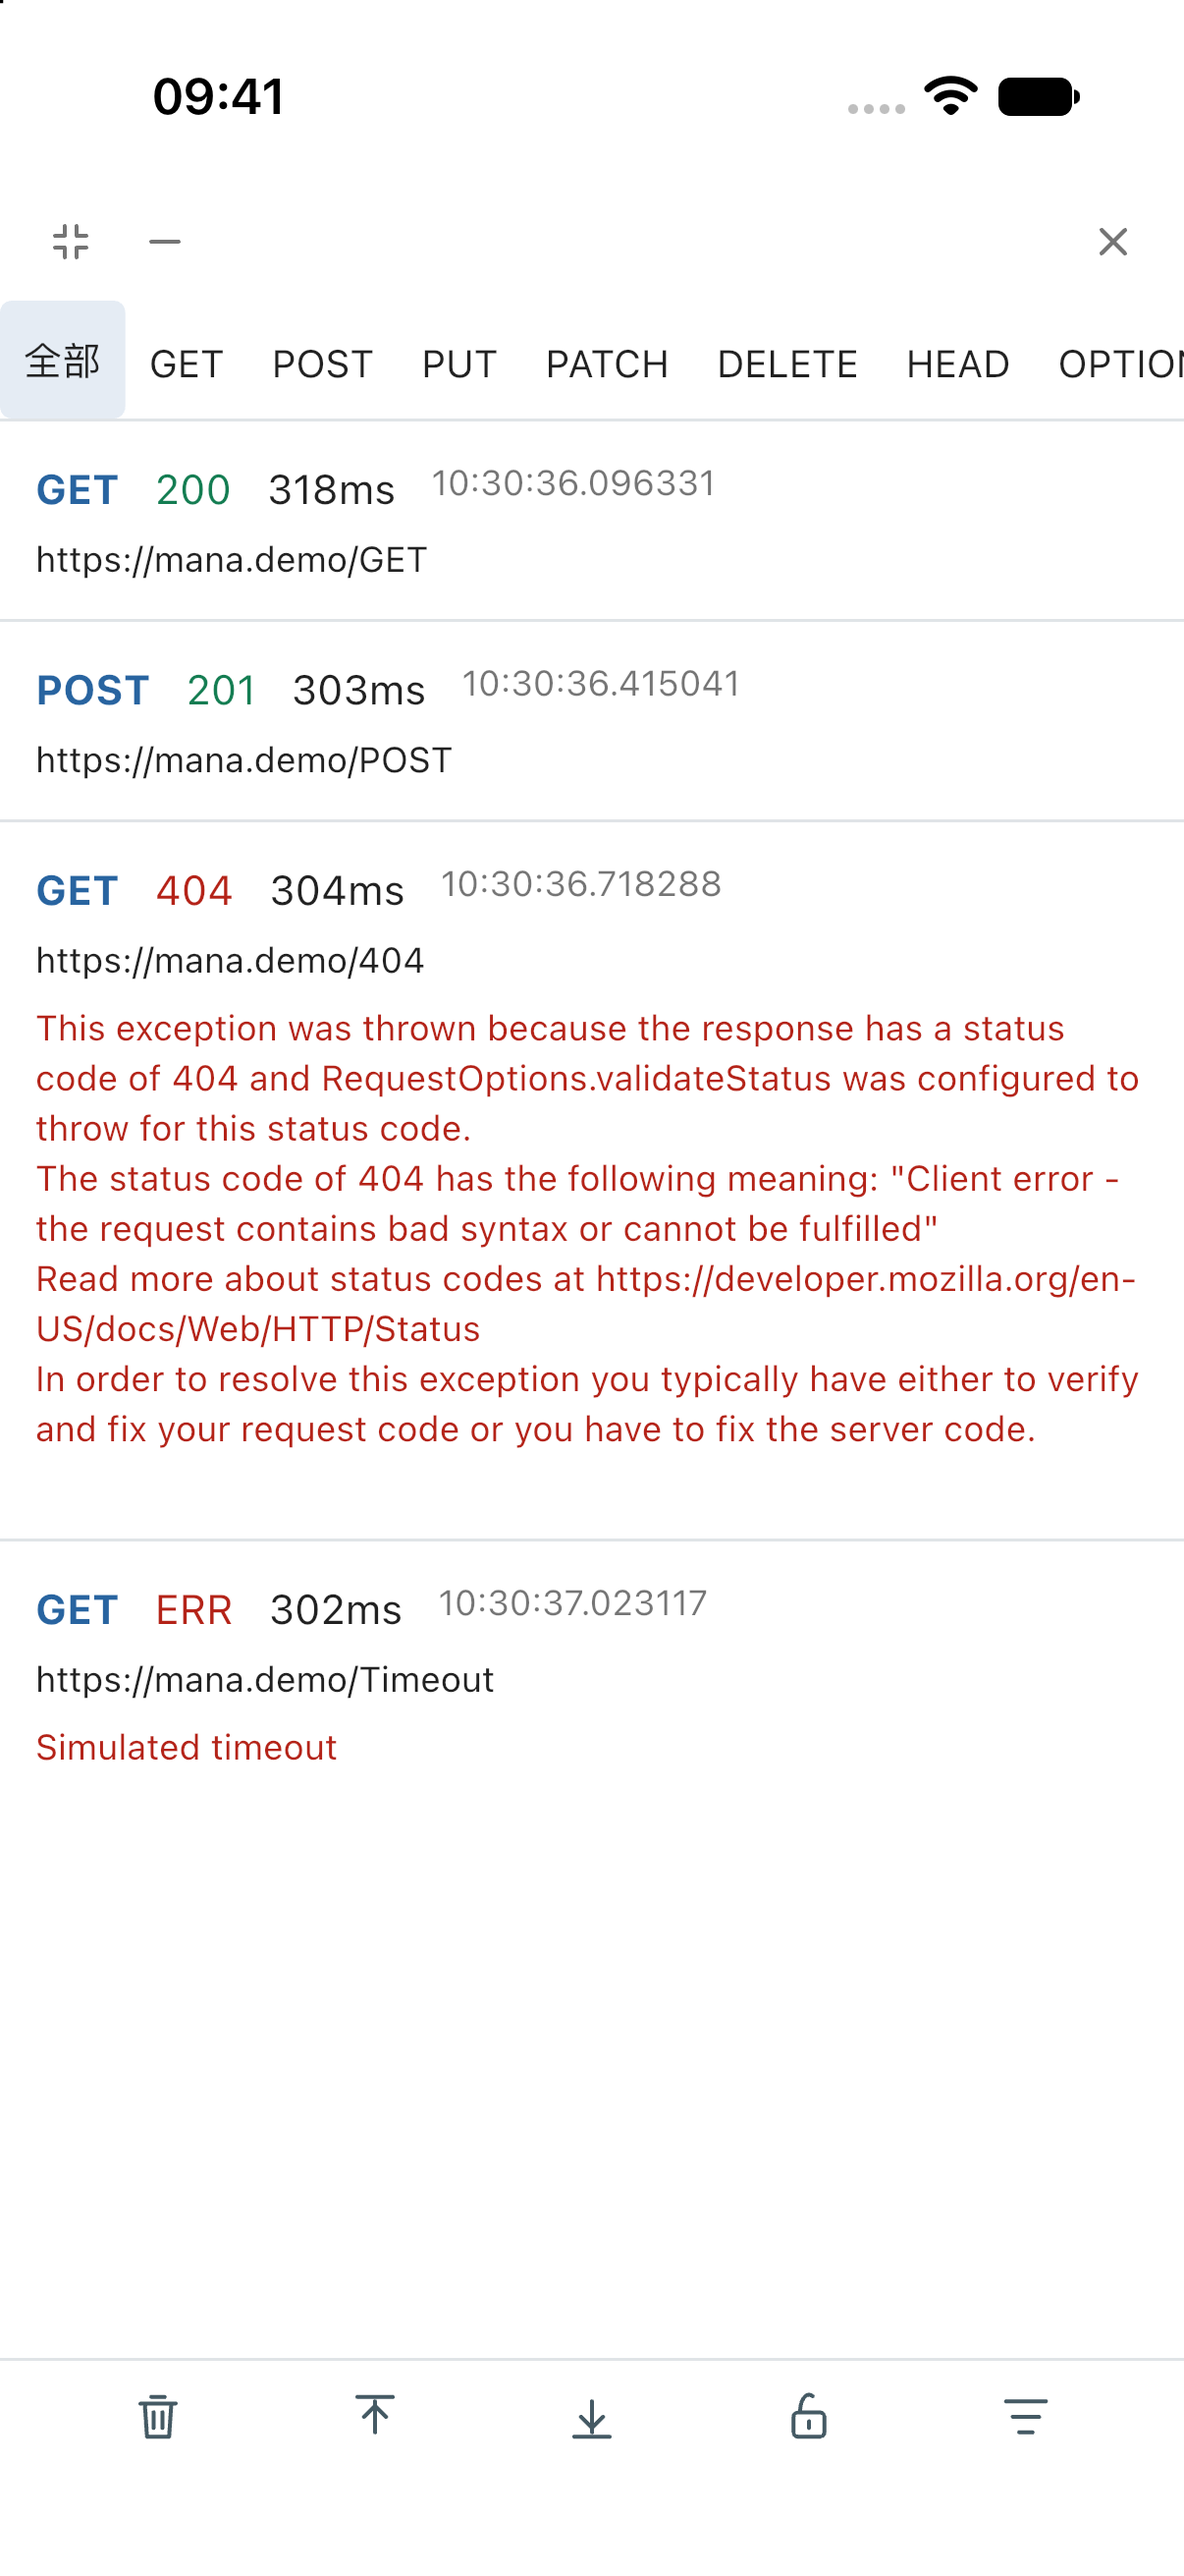
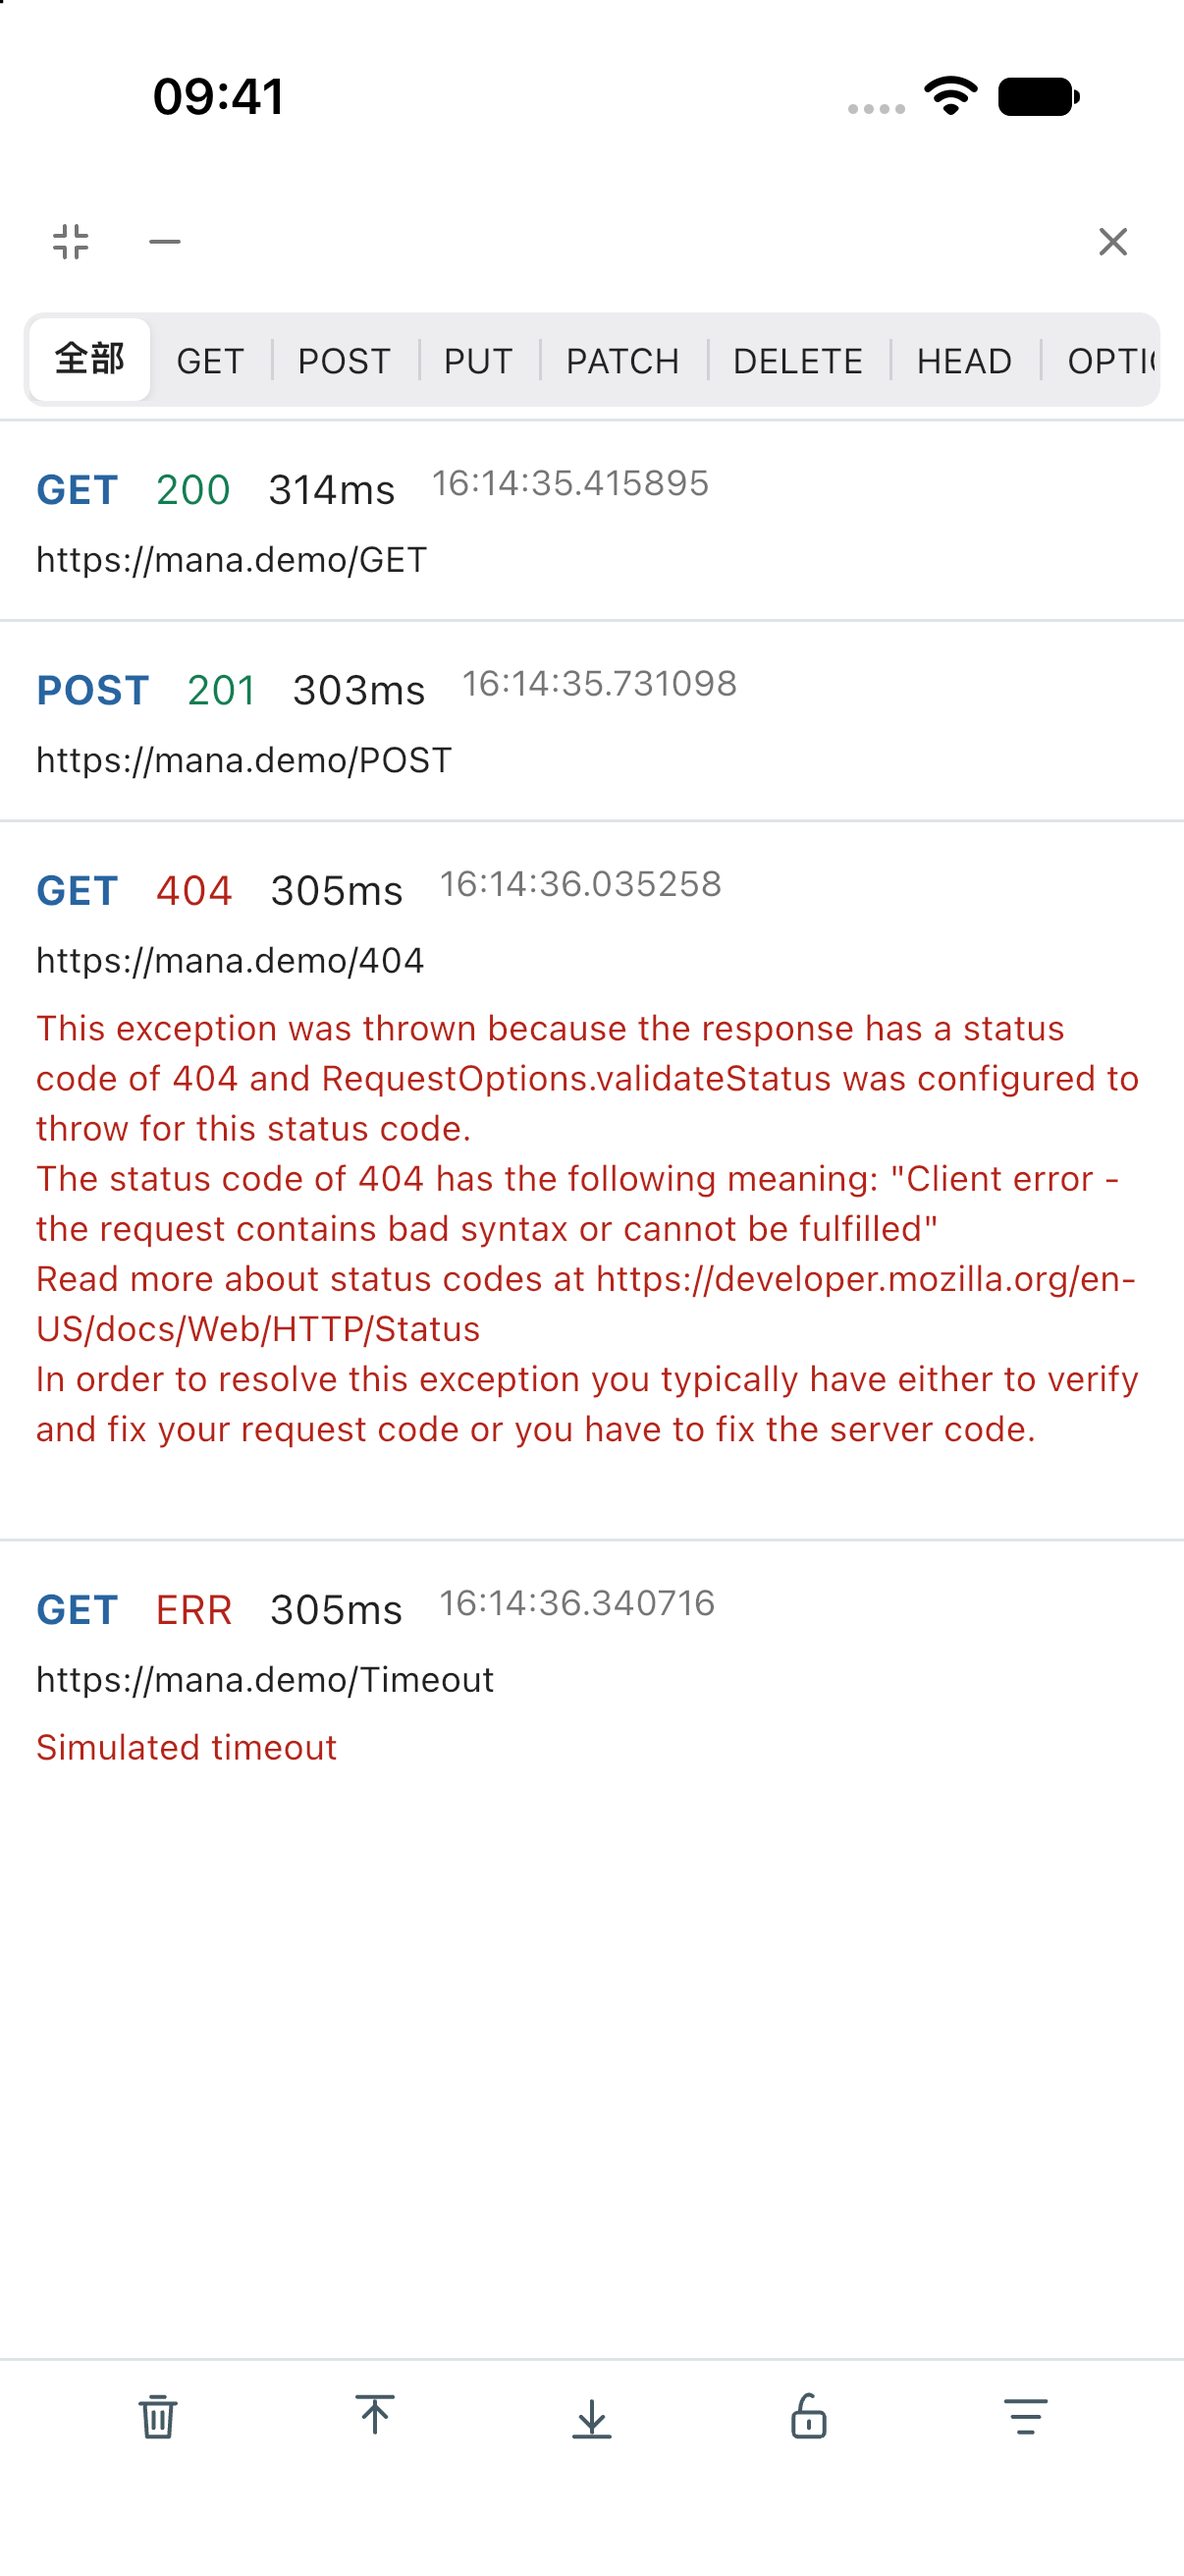
docs: 更新工具原生截图与预览说明
重新采集面板与内置工具截图，同步紧凑分段标签栏效果，并说明同日期覆盖与跨日期替换规则。

diff --git a/docs/screenshots.md b/docs/screenshots.md
@@ -20,7 +20,7 @@
    # 可选：--date=2026-11-15，默认当天日期
    ```
 
-3. 完成后退出截图应用，更新 [完整预览](previews.md) 和首页精选图的路径，移除被替换的旧图。
+3. 完成后退出截图应用，检查 [完整预览](previews.md) 和首页精选图，并更新预览说明。同日期重拍会直接覆盖旧图，无需修改引用路径；跨日期重拍时，替换文档中的图片路径，确认无旧引用后移除被替换的旧图。
 
 ## 采集规则
 

diff --git a/README.md b/README.md
@@ -47,7 +47,7 @@ flutter pub add flutter_mana_kits
 
 ## 预览图
 
-当前 example 的原生 Debug 截图（2026-11-15），包含新版无背景彩色图标。
+当前 example 的原生 Debug 截图（2026-11-15 更新），已同步紧凑分段标签栏与最新工具界面。
 
 | 面板 | 网络检查 | 内存信息 |
 |:---:|:---:|:---:|

diff --git a/docs/previews.md b/docs/previews.md
@@ -4,6 +4,8 @@
 
 全部 16 个工具及面板截图：**2026-11-15 · iPhone 17 模拟器 · 原生 Debug · 中文浅色 · 1206 × 2622 px**。
 
+本页截图已按当前版本重新采集，日志查看器与网络检查器展示新版紧凑分段标签栏。
+
 命名与采集流程见 [重新截图](screenshots.md)。
 
 | | | |
